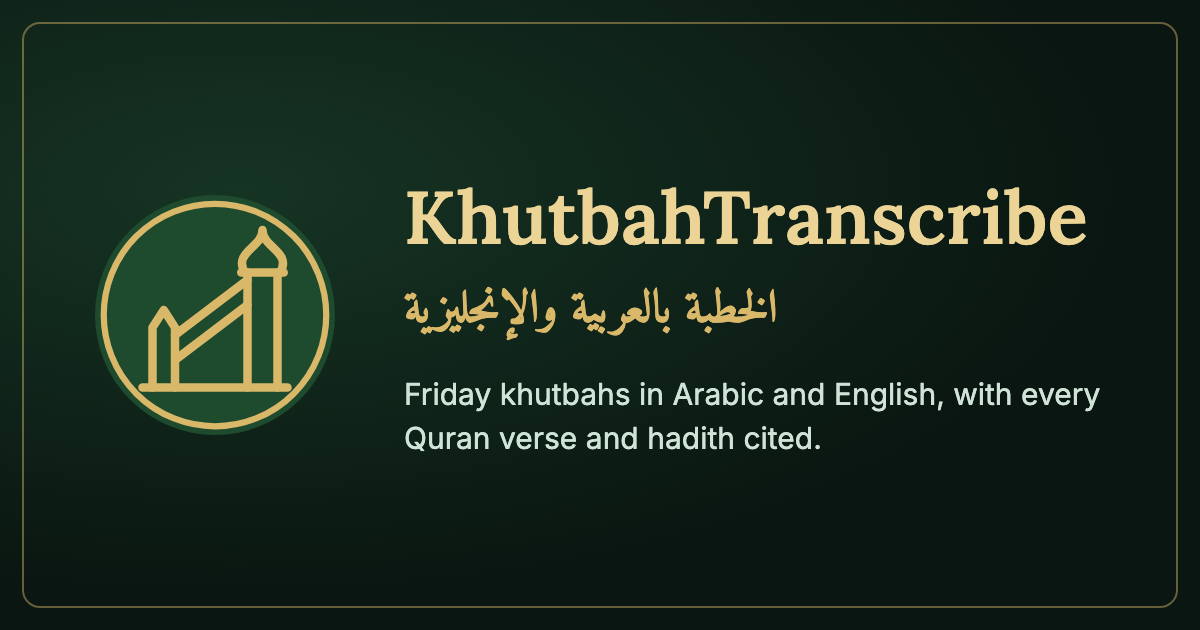
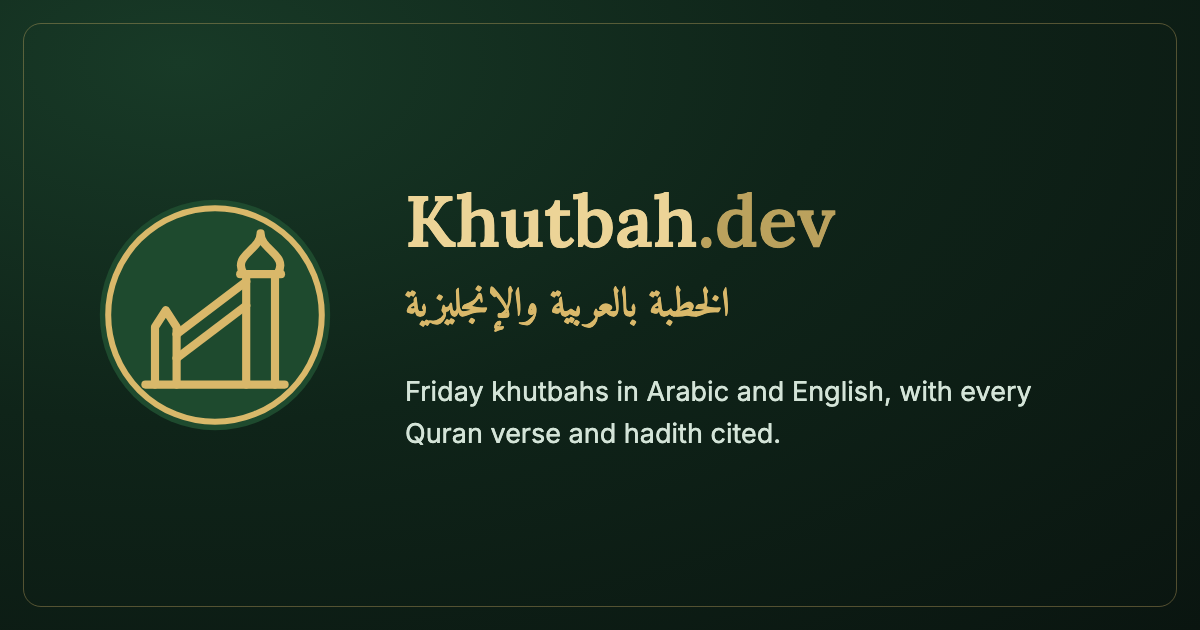
Khutbah.dev: the new name, search-engine basics, and admin pages redirect too
- The site is called Khutbah.dev (was KhutbahTranscribe): header (".dev" in gold), page
  titles, link previews (og:site_name, og.png redrawn), about text and footer.
- Search engines: a canonical link to https://khutbah.dev on every page, /sitemap.xml (home +
  every khutbah's short link), robots.txt pointing to it; the home title says what the site is.
- The onrender redirect now covers the admin pages too; only /api (Render's health check) and
  /admin/uploads (the upload worker) answer on the old address.

diff --git a/server.js b/server.js
@@ -19,10 +19,11 @@ const app = express();
 const server = createServer(app);
 const wss = new WebSocketServer({ server });
 
-// The old address: pages shared as khutbah-live.onrender.com/... open on khutbah.dev. Page
-// requests only: /admin (the upload worker) and /api (Render's health check) answer on both.
+// The old address: pages shared as khutbah-live.onrender.com/... open on khutbah.dev, admin
+// pages included. Page requests only; /api (Render's health check) and /admin/uploads (the upload
+// worker) answer on both.
 app.use((req, res, next) => {
-  if (req.hostname === 'khutbah-live.onrender.com' && (req.method === 'GET' || req.method === 'HEAD') && !/^\/(admin|api)(\/|$)/.test(req.path)) {
+  if (req.hostname === 'khutbah-live.onrender.com' && (req.method === 'GET' || req.method === 'HEAD') && !/^\/(api|admin\/uploads|admin\/api)(\/|$)/.test(req.path)) {
     return res.redirect(301, `https://khutbah.dev${req.originalUrl}`);
   }
   next();
@@ -30,19 +31,22 @@ app.use((req, res, next) => {
 app.use(express.json({ limit: '16kb' }));
 
 // Link previews (WhatsApp, iMessage, Telegram…): their crawlers read the HTML and run no
-// script, so a shared link showed only "KhutbahTranscribe". Each page is sent with its title,
+// script, so a shared link showed only the site's name. Each page is sent with its title,
 // "In Short" summary and share image in <title> and Open Graph tags.
+// The site's own address, for search engines: canonical links and the sitemap.
+const SITE = 'https://khutbah.dev';
 const escHtml = s => String(s ?? '').replace(/&/g, '&amp;').replace(/</g, '&lt;').replace(/>/g, '&gt;').replace(/"/g, '&quot;');
 function withShareMeta(file, req, { title, description, path }) {
   const base = `${req.headers['x-forwarded-proto']?.split(',')[0] || req.protocol}://${req.get('host')}`;
   const tags = [
     `<title>${escHtml(title)}</title>`,
     `<meta name="description" content="${escHtml(description)}">`,
-    `<meta property="og:site_name" content="KhutbahTranscribe">`,
+    `<meta property="og:site_name" content="Khutbah.dev">`,
     `<meta property="og:type" content="website">`,
     `<meta property="og:title" content="${escHtml(title)}">`,
     `<meta property="og:description" content="${escHtml(description)}">`,
     `<meta property="og:url" content="${escHtml(base + path)}">`,
+    `<link rel="canonical" href="${SITE}${escHtml(path)}">`,
     `<meta property="og:image" content="${escHtml(base)}/img/og.png">`,
     `<meta property="og:image:width" content="1200">`,
     `<meta property="og:image:height" content="630">`,
@@ -67,8 +71,13 @@ function shareSummary(folder) {
 }
 
 app.get('/', (req, res) => res.type('html').send(withShareMeta('home.html', req, {
-  title: 'KhutbahTranscribe', description: HOME_DESCRIPTION, path: '/',
+  title: 'Khutbah.dev · Friday Khutbahs in Arabic & English', description: HOME_DESCRIPTION, path: '/',
 })));
+// For search engines: the home page and every khutbah's short link (robots.txt points here).
+app.get('/sitemap.xml', (req, res) => res.type('application/xml').send(
+  '<?xml version="1.0" encoding="UTF-8"?>\n<urlset xmlns="http://www.sitemaps.org/schemas/sitemap/0.9">\n'
+  + ['/', ...PUBLIC_KHUTBAHS.filter(k => k.slug).map(k => `/${k.slug}`)].map(p => `  <url><loc>${SITE}${p}</loc></url>\n`).join('')
+  + '</urlset>\n'));
 // Short share links: /2026-09-25 instead of /index.html?folder=<run folder>.
 app.get('/:slug', (req, res, next) => {
   const k = PUBLIC_KHUTBAHS.find(x => x.slug && x.slug === req.params.slug);
@@ -78,7 +87,7 @@ app.get('/:slug', (req, res, next) => {
   // An entry can name its own page (the Urdu edition's reader-ur.html); the rest use index.html.
   const where = [k.date, k.masjid].filter(Boolean).join(' · ');
   res.type('html').send(withShareMeta(k.page || 'index.html', req, {
-    title: `${k.title} · KhutbahTranscribe`,
+    title: `${k.title} · Khutbah.dev`,
     description: [where, shareSummary(k.folder)].filter(Boolean).join(' · ') || HOME_DESCRIPTION,
     path: `/${k.slug}`,
   }));
@@ -699,7 +708,7 @@ app.post('/admin/uploads/:id/status', (req, res) => {
 
 const PORT = process.env.PORT || 3000;
 server.listen(PORT, () => {
-  console.log(`KhutbahTranscribe (public read-only) running at http://localhost:${PORT}`);
+  console.log(`Khutbah.dev (public read-only) running at http://localhost:${PORT}`);
   // Pre-warm cache so the very first visitor never waits on file I/O.
   for (const k of PUBLIC_KHUTBAHS) {
     try {

diff --git a/public/home.html b/public/home.html
@@ -3,7 +3,7 @@
 <head>
   <meta charset="UTF-8">
   <meta name="viewport" content="width=device-width, initial-scale=1.0, viewport-fit=cover">
-  <title>KhutbahTranscribe</title>
+  <title>Khutbah.dev</title>
   <meta name="theme-color" content="#0a1611">
   <link rel="icon" type="image/svg+xml" href="/img/logo.svg">
   <link rel="icon" type="image/png" href="/img/favicon-48.png">
@@ -88,6 +88,7 @@
       font-family: var(--font-serif); font-size: 18px; font-weight: 600;
       color: var(--cream); letter-spacing: 0.2px;
     }
+    .tld { color: var(--gold); }
     .viewers-badge {
       display: flex; align-items: center; justify-content: flex-end; gap: 6px;
       flex: 1 1 0;
@@ -555,7 +556,7 @@
 <header>
   <a class="header-brand" href="/">
     <img class="logo-mark" src="/img/logo.svg" alt="" width="40" height="40">
-    <span class="brand-name">KhutbahTranscribe</span>
+    <span class="brand-name">Khutbah<span class="tld">.dev</span></span>
   </a>
   <nav class="header-nav">
     <a href="#khutbahs">Khutbahs</a>
@@ -655,7 +656,7 @@
         </div>
       </div>
       <p class="dev-bio">
-        I built KhutbahTranscribe and look after it. Every khutbah here is one I've processed, reviewed, and chosen to publish.
+        I built Khutbah.dev and look after it. Every khutbah here is one I've processed, reviewed, and chosen to publish.
       </p>
       <p class="dev-bio" style="margin-top:14px;">
         I'm also a hafiz of the Quran, alhamdulillah. Having the Quran memorised is a big part of why the Quranic references here matter to me: when the imam recites a verse, I want every listener to know exactly which verse it is and what it means, in its full context.
@@ -698,7 +699,7 @@
 </section>
 
 <footer>
-  <span style="color:var(--text-dim)">KhutbahTranscribe · Built by</span>
+  <span style="color:var(--text-dim)">Khutbah.dev · Built by</span>
   <a href="https://www.linkedin.com/in/meerhusam" target="_blank" rel="noopener">Meer Husamuddin</a>
   <span style="color:var(--text-dim)">·</span>
   <a href="https://github.com/MeerHusam/khutbah-transcribe" target="_blank" rel="noopener">GitHub</a>

diff --git a/public/reader-ur.html b/public/reader-ur.html
@@ -7,7 +7,7 @@
 <head>
   <meta charset="UTF-8">
   <meta name="viewport" content="width=device-width, initial-scale=1.0, viewport-fit=cover">
-  <title>KhutbahTranscribe</title>
+  <title>Khutbah.dev</title>
   <meta name="theme-color" content="#0a1611">
   <link rel="icon" type="image/svg+xml" href="/img/logo.svg">
   <link rel="icon" type="image/png" href="/img/favicon-48.png">
@@ -104,6 +104,7 @@
       font-size: 17px; font-weight: 600; white-space: nowrap;
       color: var(--cream); letter-spacing: 0.2px;
     }
+    header h1 .tld { color: var(--gold); }
 
     /* Audio player: a bar along the bottom of the screen, as in music apps (Spotify, YouTube
        Music), lined up with the reading column. Phones get a fuller layout further down.
@@ -771,7 +772,7 @@
       body.player-mini .layout { padding-bottom: calc(96px + env(safe-area-inset-bottom)); }
       .layout { padding-bottom: calc(250px + env(safe-area-inset-bottom)); }
       /* Brand and khutbah picker share the top row; the live count tucks under the name:
-           [logo] KhutbahTranscribe   [picker]
+           [logo] Khutbah.dev         [picker]
                   ● 3 live                    */
       header {
         display: grid;
@@ -812,7 +813,7 @@
 <header>
   <a class="header-left" href="/" style="text-decoration:none;color:inherit;">
     <img class="logo-mark" src="/img/logo.svg" alt="" width="38" height="38">
-    <h1>KhutbahTranscribe</h1>
+    <h1>Khutbah<span class="tld">.dev</span></h1>
   </a>
 
   <div class="header-right">

diff --git a/public/index.html b/public/index.html
@@ -3,7 +3,7 @@
 <head>
   <meta charset="UTF-8">
   <meta name="viewport" content="width=device-width, initial-scale=1.0, viewport-fit=cover">
-  <title>KhutbahTranscribe</title>
+  <title>Khutbah.dev</title>
   <meta name="theme-color" content="#0a1611">
   <link rel="icon" type="image/svg+xml" href="/img/logo.svg">
   <link rel="icon" type="image/png" href="/img/favicon-48.png">
@@ -100,6 +100,7 @@
       font-size: 17px; font-weight: 600; white-space: nowrap;
       color: var(--cream); letter-spacing: 0.2px;
     }
+    header h1 .tld { color: var(--gold); }
 
     /* Audio player: grows to fill, wraps to its own row on narrow screens */
     .audio-player {
@@ -664,7 +665,7 @@
       .audio-scrubber { min-width: 40px; }
       .skip-btn { font-size: 15px; }
       /* Brand and khutbah picker share the top row; the live count tucks under the name:
-           [logo] KhutbahTranscribe   [picker]
+           [logo] Khutbah.dev         [picker]
                   ● 3 live
            [player ..................]          */
       header {
@@ -701,7 +702,7 @@
 <header>
   <a class="header-left" href="/" style="text-decoration:none;color:inherit;">
     <img class="logo-mark" src="/img/logo.svg" alt="" width="38" height="38">
-    <h1>KhutbahTranscribe</h1>
+    <h1>Khutbah<span class="tld">.dev</span></h1>
   </a>
 
   <div class="audio-player" id="audioPlayer">

diff --git a/public/stream.html b/public/stream.html
@@ -3,7 +3,7 @@
 <head>
 <meta charset="utf-8">
 <meta name="viewport" content="width=device-width, initial-scale=1">
-<title>KhutbahTranscribe — Streaming</title>
+<title>Khutbah.dev — Streaming</title>
 <link rel="preconnect" href="https://fonts.googleapis.com">
 <link href="https://fonts.googleapis.com/css2?family=Amiri:ital@0;1&family=Lora:ital@0;1&display=swap" rel="stylesheet">
 <style>

diff --git a/public/live.html b/public/live.html
@@ -3,7 +3,7 @@
 <head>
 <meta charset="utf-8">
 <meta name="viewport" content="width=device-width, initial-scale=1">
-<title>KhutbahTranscribe — Live</title>
+<title>Khutbah.dev — Live</title>
 <link rel="preconnect" href="https://fonts.googleapis.com">
 <link href="https://fonts.googleapis.com/css2?family=Amiri:ital@0;1&family=Lora:ital@0;1&display=swap" rel="stylesheet">
 <style>

diff --git a/public/results.html b/public/results.html
@@ -3,7 +3,7 @@
 <head>
   <meta charset="UTF-8">
   <meta name="viewport" content="width=device-width, initial-scale=1.0">
-  <title>KhutbahTranscribe</title>
+  <title>Khutbah.dev</title>
   <script>
     // The reader is now the home page (index.html). Preserve any ?folder= param.
     location.replace('/' + (location.search || ''));
